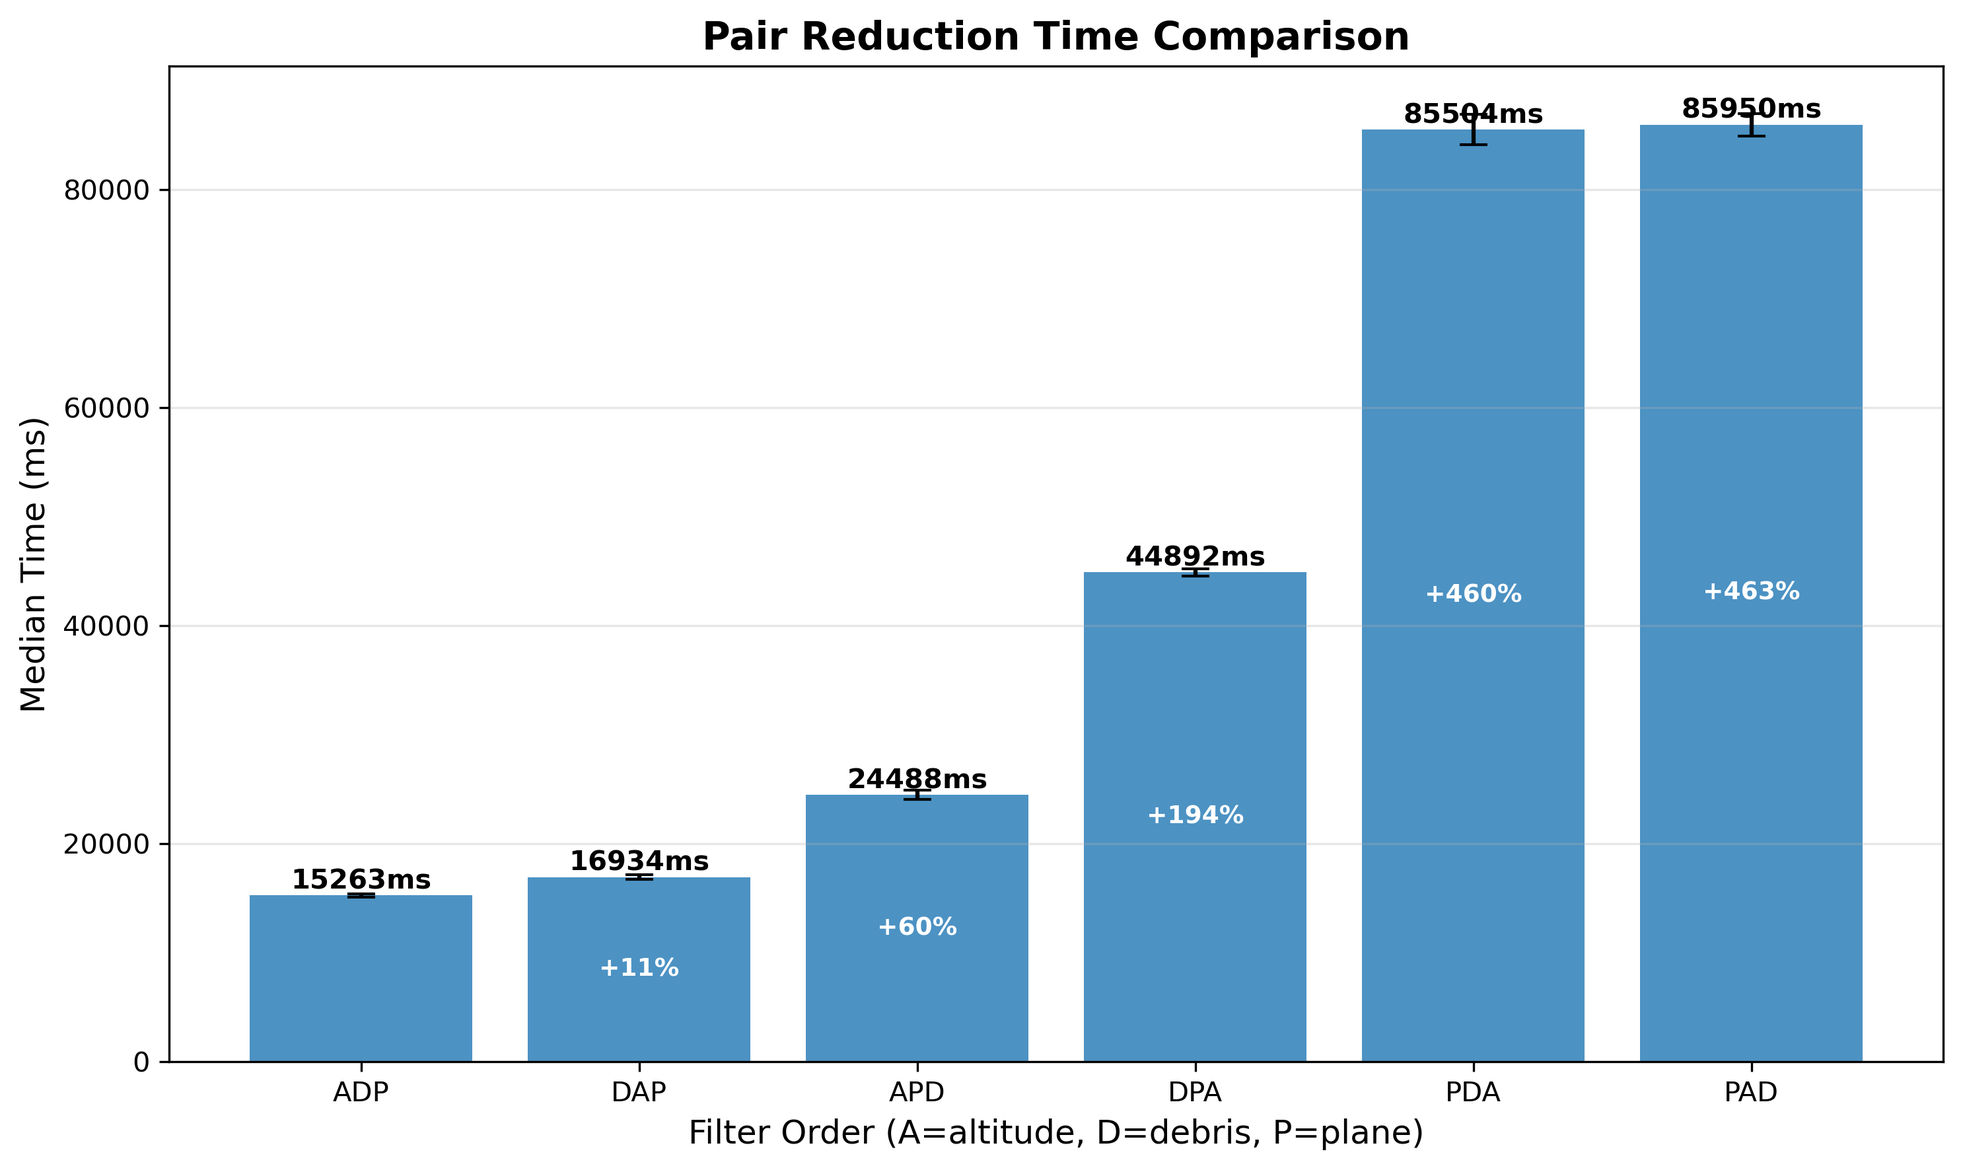
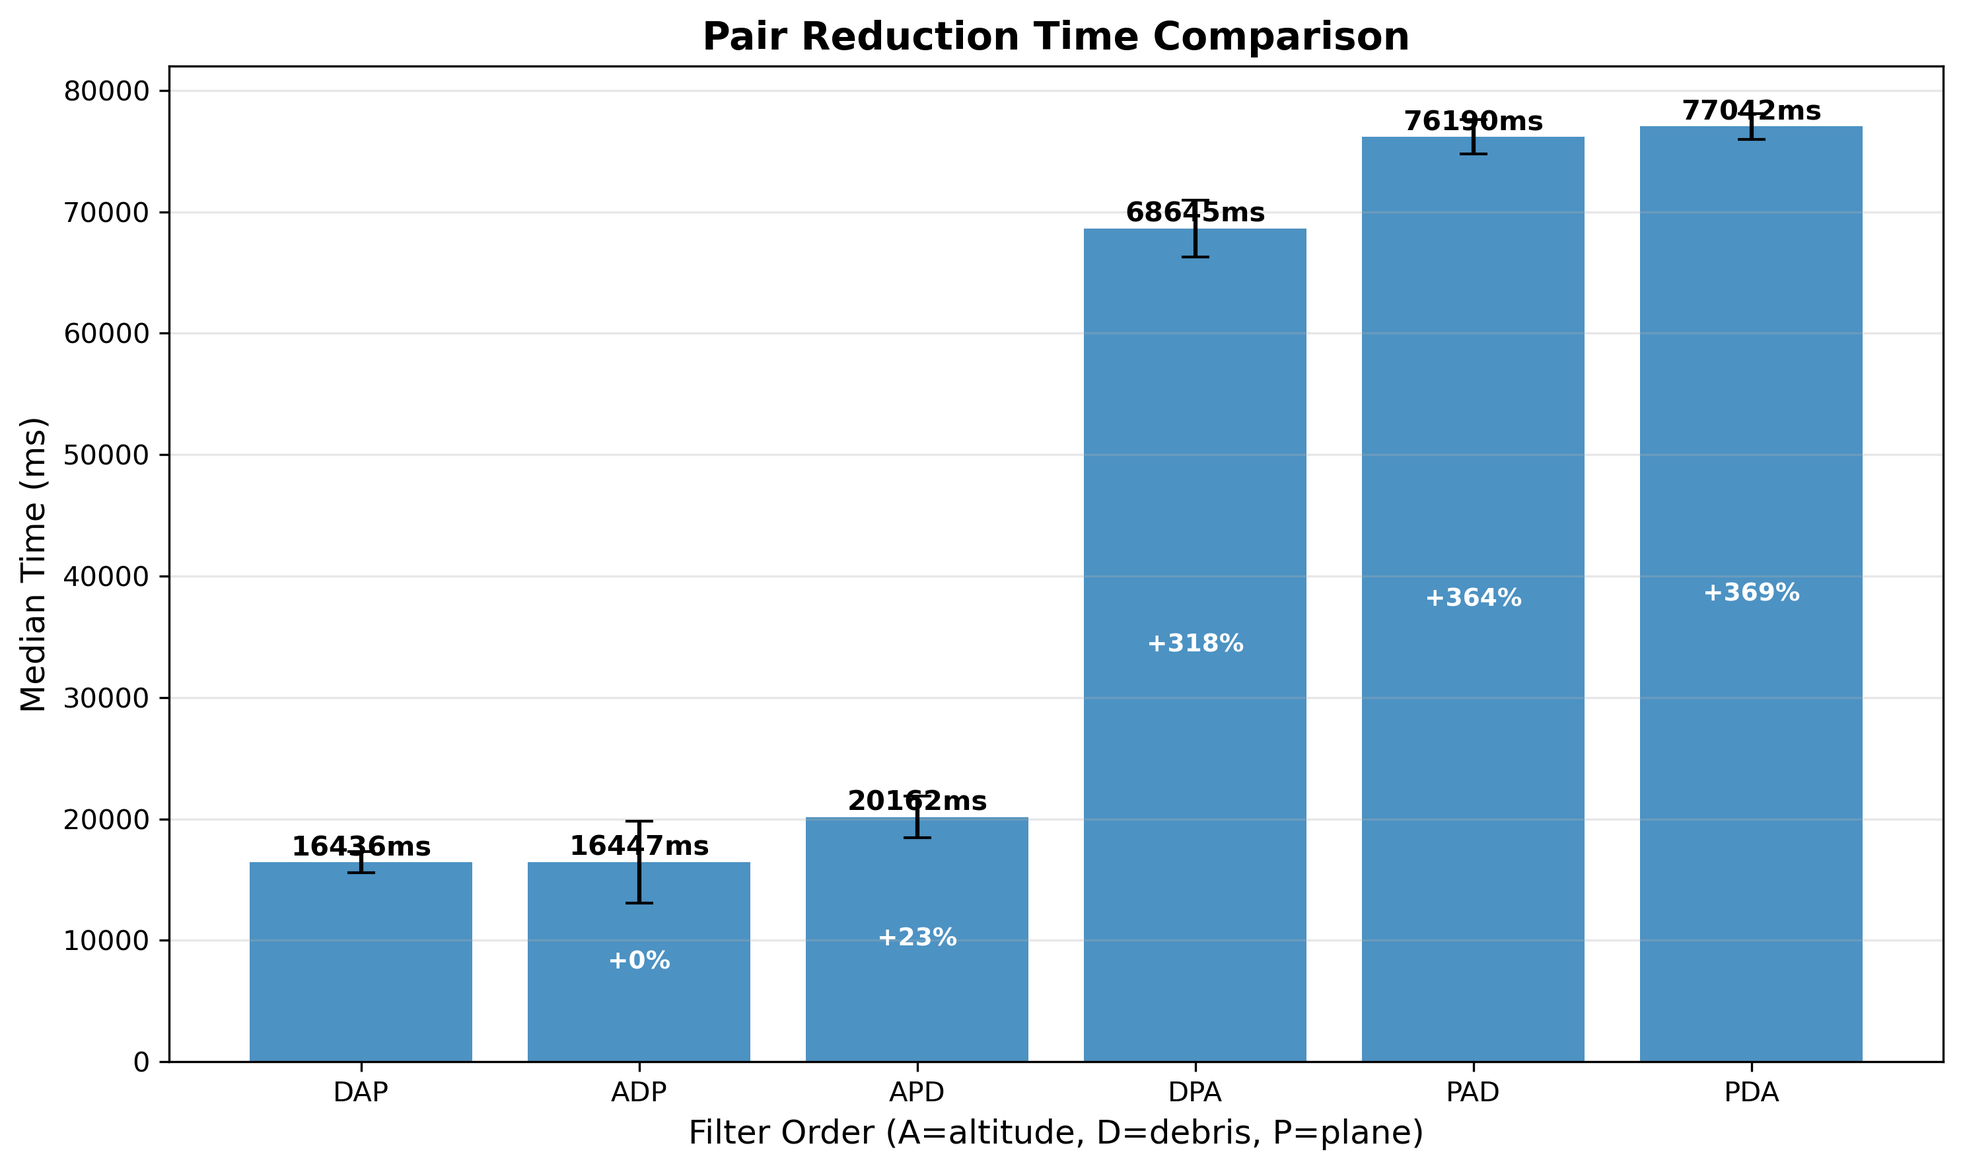
Optimize and fix bug in pair reduction

diff --git a/src/main/java/io/salad109/conjunctiondetector/satellite/internal/PairReductionBenchmark.java b/src/main/java/io/salad109/conjunctiondetector/satellite/internal/PairReductionBenchmark.java
@@ -19,15 +19,14 @@ import java.time.LocalDateTime;
 import java.time.format.DateTimeFormatter;
 import java.util.ArrayList;
 import java.util.List;
-import java.util.Map;
 import java.util.function.Consumer;
 import java.util.stream.IntStream;
 
 /**
  * Linux:
- * ./mvnw spring-boot:run -Dspring-boot.run.profiles=benchmark-filter -Dspring-boot.run.jvmArguments="-XX:+UseZGC -Xmx16g -Xms16g -XX:+AlwaysPreTouch"
+ * ./mvnw spring-boot:run -Dspring-boot.run.profiles=benchmark-filter -Dspring-boot.run.jvmArguments="-Xmx16g -Xms16g -XX:+AlwaysPreTouch"
  * Windows:
- * ./mvnw spring-boot:run "-Dspring-boot.run.profiles=benchmark-filter" "-Dspring-boot.run.jvmArguments=-XX:+UseZGC -Xmx16g -Xms16g -XX:+AlwaysPreTouch"
+ * ./mvnw spring-boot:run "-Dspring-boot.run.profiles=benchmark-filter" "-Dspring-boot.run.jvmArguments=-Xmx16g -Xms16g -XX:+AlwaysPreTouch"
  */
 @Component
 @Profile("benchmark-filter")
@@ -35,44 +34,14 @@ public class PairReductionBenchmark implements CommandLineRunner {
 
     private static final Logger log = LoggerFactory.getLogger(PairReductionBenchmark.class);
     private static final double DEFAULT_TOLERANCE_KM = 12.5;
-    private static final int ITERATIONS = 20;
+    private static final int ITERATIONS = 10;
 
     private final SatelliteRepository satelliteRepository;
     private final PairReductionService pairReductionService;
 
-    private final Map<String, PairFilter> orderings;
-
     public PairReductionBenchmark(SatelliteRepository satelliteRepository, PairReductionService pairReductionService) {
         this.satelliteRepository = satelliteRepository;
         this.pairReductionService = pairReductionService;
-
-        // A=altitude, D=debris, P=plane
-        this.orderings = Map.of(
-                "ADP", (a, b, tol) ->
-                        this.pairReductionService.altitudeShellsOverlap(a, b, tol) &&
-                                this.pairReductionService.neitherAreDebris(a, b) &&
-                                this.pairReductionService.orbitalPlanesIntersect(a, b, tol),
-                "APD", (a, b, tol) ->
-                        this.pairReductionService.altitudeShellsOverlap(a, b, tol) &&
-                                this.pairReductionService.orbitalPlanesIntersect(a, b, tol) &&
-                                this.pairReductionService.neitherAreDebris(a, b),
-                "DAP", (a, b, tol) ->
-                        this.pairReductionService.neitherAreDebris(a, b) &&
-                                this.pairReductionService.altitudeShellsOverlap(a, b, tol) &&
-                                this.pairReductionService.orbitalPlanesIntersect(a, b, tol),
-                "DPA", (a, b, tol) ->
-                        this.pairReductionService.neitherAreDebris(a, b) &&
-                                this.pairReductionService.orbitalPlanesIntersect(a, b, tol) &&
-                                this.pairReductionService.altitudeShellsOverlap(a, b, tol),
-                "PAD", (a, b, tol) ->
-                        this.pairReductionService.orbitalPlanesIntersect(a, b, tol) &&
-                                this.pairReductionService.altitudeShellsOverlap(a, b, tol) &&
-                                this.pairReductionService.neitherAreDebris(a, b),
-                "PDA", (a, b, tol) ->
-                        this.pairReductionService.orbitalPlanesIntersect(a, b, tol) &&
-                                this.pairReductionService.neitherAreDebris(a, b) &&
-                                this.pairReductionService.altitudeShellsOverlap(a, b, tol)
-        );
     }
 
     @Override
@@ -86,6 +55,28 @@ public class PairReductionBenchmark implements CommandLineRunner {
         log.info("Starting pair reduction order benchmark");
         log.info("");
 
+        double[] perigees = new double[n];
+        double[] apogees = new double[n];
+        double[] inclinations = new double[n];
+        double[] raans = new double[n];
+        double[] argPerigees = new double[n];
+        double[] eccentricities = new double[n];
+        double[] semiMajorAxes = new double[n];
+        boolean[] isDebris = new boolean[n];
+
+        for (int i = 0; i < n; i++) {
+            Satellite s = satellites.get(i);
+            perigees[i] = s.getPerigeeKm();
+            apogees[i] = s.getApogeeKm();
+            inclinations[i] = Math.toRadians(s.getInclination());
+            raans[i] = Math.toRadians(s.getRaan());
+            argPerigees[i] = Math.toRadians(s.getArgPerigee());
+            eccentricities[i] = s.getEccentricity();
+            semiMajorAxes[i] = s.getSemiMajorAxisKm();
+            isDebris[i] = "DEBRIS".equals(s.getObjectType());
+        }
+
+        // A=altitude, D=debris, P=plane
         List<String> orderNames = List.of("ADP", "APD", "DAP", "DPA", "PAD", "PDA");
         List<OrderResult> results = new ArrayList<>();
 
@@ -95,7 +86,9 @@ public class PairReductionBenchmark implements CommandLineRunner {
                 System.gc();
                 Thread.sleep(100);
 
-                results.add(runOrdering(satellites, totalPairs, orderName));
+                results.add(runOrdering(satellites, totalPairs, orderName, n,
+                        perigees, apogees, inclinations, raans, argPerigees,
+                        eccentricities, semiMajorAxes, isDebris));
             }
         }
 
@@ -103,22 +96,34 @@ public class PairReductionBenchmark implements CommandLineRunner {
         log.info("Benchmark complete");
     }
 
-    private OrderResult runOrdering(List<Satellite> satellites, long totalPairs,
-                                    String orderName) {
-        int n = satellites.size();
-        PairFilter filter = orderings.get(orderName);
+    private OrderResult runOrdering(List<Satellite> satellites, long totalPairs, String orderName,
+                                    int n, double[] perigees, double[] apogees,
+                                    double[] inclinations, double[] raans, double[] argPerigees,
+                                    double[] eccentricities, double[] semiMajorAxes, boolean[] isDebris) {
 
         StopWatch watch = StopWatch.createStarted();
         List<SatellitePair> results = IntStream.range(0, n)
                 .parallel()
                 .boxed()
                 .mapMulti((Integer i, Consumer<SatellitePair> consumer) -> {
-                    Satellite a = satellites.get(i);
+                    double perigeeA = perigees[i];
+                    double apogeeA = apogees[i];
+                    boolean debrisA = isDebris[i];
+                    double iA = inclinations[i];
+                    double raanA = raans[i];
+                    double omegaA = argPerigees[i];
+                    double eA = eccentricities[i];
+                    double aA = semiMajorAxes[i];
+
                     for (int j = i + 1; j < n; j++) {
-                        Satellite b = satellites.get(j);
-                        if (filter.test(a, b, DEFAULT_TOLERANCE_KM)) {
-                            consumer.accept(new SatellitePair(a, b));
+                        if (shouldSkip(orderName, DEFAULT_TOLERANCE_KM,
+                                perigeeA, apogeeA, debrisA, iA, raanA, omegaA, eA, aA,
+                                perigees[j], apogees[j], isDebris[j],
+                                inclinations[j], raans[j], argPerigees[j],
+                                eccentricities[j], semiMajorAxes[j])) {
+                            continue;
                         }
+                        consumer.accept(new SatellitePair(satellites.get(i), satellites.get(j)));
                     }
                 })
                 .toList();
@@ -127,6 +132,36 @@ public class PairReductionBenchmark implements CommandLineRunner {
         log.info("{} | {}ms | {} pairs", orderName, watch.getTime(), results.size());
 
         return new OrderResult(orderName, totalPairs, results.size(), watch.getTime());
+    }
+
+    private boolean shouldSkip(String order, double tol,
+                               double perigeeA, double apogeeA, boolean debrisA,
+                               double iA, double raanA, double omegaA, double eA, double aA,
+                               double perigeeB, double apogeeB, boolean debrisB,
+                               double iB, double raanB, double omegaB, double eB, double aB) {
+        return switch (order) {
+            case "ADP" -> pairReductionService.altitudeShellsMiss(perigeeA, apogeeA, perigeeB, apogeeB, tol)
+                    || pairReductionService.bothDebris(debrisA, debrisB)
+                    || pairReductionService.orbitalPlanesMiss(iA, raanA, omegaA, eA, aA, iB, raanB, omegaB, eB, aB, tol);
+            case "APD" -> pairReductionService.altitudeShellsMiss(perigeeA, apogeeA, perigeeB, apogeeB, tol)
+                    || pairReductionService.orbitalPlanesMiss(iA, raanA, omegaA, eA, aA, iB, raanB, omegaB, eB, aB, tol)
+                    || pairReductionService.bothDebris(debrisA, debrisB);
+            case "DAP" -> pairReductionService.bothDebris(debrisA, debrisB)
+                    || pairReductionService.altitudeShellsMiss(perigeeA, apogeeA, perigeeB, apogeeB, tol)
+                    || pairReductionService.orbitalPlanesMiss(iA, raanA, omegaA, eA, aA, iB, raanB, omegaB, eB, aB, tol);
+            case "DPA" -> pairReductionService.bothDebris(debrisA, debrisB)
+                    || pairReductionService.orbitalPlanesMiss(iA, raanA, omegaA, eA, aA, iB, raanB, omegaB, eB, aB, tol)
+                    || pairReductionService.altitudeShellsMiss(perigeeA, apogeeA, perigeeB, apogeeB, tol);
+            case "PAD" ->
+                    pairReductionService.orbitalPlanesMiss(iA, raanA, omegaA, eA, aA, iB, raanB, omegaB, eB, aB, tol)
+                            || pairReductionService.altitudeShellsMiss(perigeeA, apogeeA, perigeeB, apogeeB, tol)
+                            || pairReductionService.bothDebris(debrisA, debrisB);
+            case "PDA" ->
+                    pairReductionService.orbitalPlanesMiss(iA, raanA, omegaA, eA, aA, iB, raanB, omegaB, eB, aB, tol)
+                            || pairReductionService.bothDebris(debrisA, debrisB)
+                            || pairReductionService.altitudeShellsMiss(perigeeA, apogeeA, perigeeB, apogeeB, tol);
+            default -> throw new IllegalArgumentException("Unknown order: " + order);
+        };
     }
 
     private void writeCsv(List<OrderResult> results) {
@@ -147,11 +182,6 @@ public class PairReductionBenchmark implements CommandLineRunner {
         } catch (IOException e) {
             log.error("Failed to write CSV file", e);
         }
-    }
-
-    @FunctionalInterface
-    interface PairFilter {
-        boolean test(Satellite a, Satellite b, double toleranceKm);
     }
 
     private record OrderResult(String order, long totalPairs, long finalPairs, long timeMs) {

diff --git a/src/main/java/io/salad109/conjunctiondetector/satellite/PairReductionService.java b/src/main/java/io/salad109/conjunctiondetector/satellite/PairReductionService.java
@@ -14,64 +14,78 @@ public class PairReductionService {
      * Uses orbital geometry filters to reduce the number of pairs for detailed analysis.
      */
     public List<SatellitePair> findPotentialCollisionPairs(List<Satellite> satellites, double toleranceKm) {
-        int satelliteCount = satellites.size();
+        int n = satellites.size();
 
-        return IntStream.range(0, satelliteCount)
+        // Pre-extract fields into arrays
+        double[] perigees = new double[n];
+        double[] apogees = new double[n];
+        double[] inclinations = new double[n];
+        double[] raans = new double[n];
+        double[] argPerigees = new double[n];
+        double[] eccentricities = new double[n];
+        double[] semiMajorAxes = new double[n];
+        boolean[] isDebris = new boolean[n];
+
+        for (int i = 0; i < n; i++) {
+            Satellite s = satellites.get(i);
+            perigees[i] = s.getPerigeeKm();
+            apogees[i] = s.getApogeeKm();
+            inclinations[i] = Math.toRadians(s.getInclination());
+            raans[i] = Math.toRadians(s.getRaan());
+            argPerigees[i] = Math.toRadians(s.getArgPerigee());
+            eccentricities[i] = s.getEccentricity();
+            semiMajorAxes[i] = s.getSemiMajorAxisKm();
+            isDebris[i] = "DEBRIS".equals(s.getObjectType());
+        }
+
+        return IntStream.range(0, n)
                 .parallel()
                 .boxed()
                 .mapMulti((Integer i, Consumer<SatellitePair> consumer) -> {
-                    Satellite a = satellites.get(i);
-                    for (int j = i + 1; j < satelliteCount; j++) {
-                        Satellite b = satellites.get(j);
-                        if (canCollide(a, b, toleranceKm)) {
-                            consumer.accept(new SatellitePair(a, b));
+                    double perigeeA = perigees[i];
+                    double apogeeA = apogees[i];
+                    boolean debrisA = isDebris[i];
+                    double iA = inclinations[i];
+                    double raanA = raans[i];
+                    double omegaA = argPerigees[i];
+                    double eA = eccentricities[i];
+                    double aA = semiMajorAxes[i];
+
+                    for (int j = i + 1; j < n; j++) {
+                        if (altitudeShellsMiss(perigeeA, apogeeA, perigees[j], apogees[j], toleranceKm)
+                                || bothDebris(debrisA, isDebris[j])
+                                || orbitalPlanesMiss(iA, raanA, omegaA, eA, aA,
+                                inclinations[j], raans[j], argPerigees[j],
+                                eccentricities[j], semiMajorAxes[j], toleranceKm)) {
+                            continue;
                         }
+
+                        consumer.accept(new SatellitePair(satellites.get(i), satellites.get(j)));
                     }
                 })
                 .toList();
     }
 
-    /**
-     * Determines if two satellites could possibly collide.
-     * Applies orbital geometry filters with mathematical certainty.
-     */
-    public boolean canCollide(Satellite a, Satellite b, double toleranceKm) {
-        // Apply filters starting with computationally cheapest
-        return altitudeShellsOverlap(a, b, toleranceKm) &&
-                neitherAreDebris(a, b) &&
-                orbitalPlanesIntersect(a, b, toleranceKm);
+    public boolean altitudeShellsMiss(double perigeeA, double apogeeA,
+                                      double perigeeB, double apogeeB, double toleranceKm) {
+        return apogeeA + toleranceKm < perigeeB || apogeeB + toleranceKm < perigeeA;
     }
 
-    public boolean altitudeShellsOverlap(Satellite a, Satellite b, double toleranceKm) {
-        double perigeeA = a.getPerigeeKm();
-        double apogeeA = a.getApogeeKm();
-        double perigeeB = b.getPerigeeKm();
-        double apogeeB = b.getApogeeKm();
-        return !(apogeeA + toleranceKm < perigeeB || apogeeB + toleranceKm < perigeeA);
+    public boolean bothDebris(boolean debrisA, boolean debrisB) {
+        return debrisA && debrisB;
     }
 
-    public boolean neitherAreDebris(Satellite a, Satellite b) {
-        return !"DEBRIS".equals(a.getObjectType()) && !"DEBRIS".equals(b.getObjectType());
-    }
-
-    public boolean orbitalPlanesIntersect(Satellite a, Satellite b, double toleranceKm) {
-        double iA = Math.toRadians(a.getInclination());
-        double iB = Math.toRadians(b.getInclination());
-        double raanA = Math.toRadians(a.getRaan());
-        double raanB = Math.toRadians(b.getRaan());
-        double omegaA = Math.toRadians(a.getArgPerigee());
-        double omegaB = Math.toRadians(b.getArgPerigee());
-        double eA = a.getEccentricity();
-        double eB = b.getEccentricity();
-        double aA = a.getSemiMajorAxisKm();
-        double aB = b.getSemiMajorAxisKm();
+    public boolean orbitalPlanesMiss(
+            double iA, double raanA, double omegaA, double eA, double aA,
+            double iB, double raanB, double omegaB, double eB, double aB,
+            double toleranceKm) {
 
         double deltaRaan = raanA - raanB;
 
         // Coplanar orbits can intersect anywhere
         double relativeInclination = computeRelativeInclination(iA, iB, deltaRaan);
         if (relativeInclination < Math.toRadians(0.1)) {
-            return true;
+            return false;
         }
 
         // Find where each orbit crosses the intersection line between orbital planes
@@ -97,7 +111,7 @@ public class PairReductionService {
         double diff4 = Math.abs(rA2 - rB2);
 
         double minDiff = Math.min(Math.min(diff1, diff2), Math.min(diff3, diff4));
-        return minDiff <= toleranceKm;
+        return minDiff > toleranceKm;
     }
 
     private double computeRelativeInclination(double iA, double iB, double deltaRaan) {

diff --git a/src/main/java/io/salad109/conjunctiondetector/conjunction/internal/ConjunctionBenchmark.java b/src/main/java/io/salad109/conjunctiondetector/conjunction/internal/ConjunctionBenchmark.java
@@ -29,9 +29,9 @@ import java.util.Objects;
 
 /**
  * Linux:
- * ./mvnw spring-boot:run -Dspring-boot.run.profiles=benchmark-conjunction -Dspring-boot.run.jvmArguments="-XX:+UseZGC -Xmx16g -Xms16g -XX:+AlwaysPreTouch"
+ * ./mvnw spring-boot:run -Dspring-boot.run.profiles=benchmark-conjunction -Dspring-boot.run.jvmArguments="-Xmx16g -Xms16g -XX:+AlwaysPreTouch"
  * Windows:
- * ./mvnw spring-boot:run "-Dspring-boot.run.profiles=benchmark-conjunction" "-Dspring-boot.run.jvmArguments=-XX:+UseZGC -Xmx16g -Xms16g -XX:+AlwaysPreTouch"
+ * ./mvnw spring-boot:run "-Dspring-boot.run.profiles=benchmark-conjunction" "-Dspring-boot.run.jvmArguments=-Xmx16g -Xms16g -XX:+AlwaysPreTouch"
  */
 @Component
 @Profile("benchmark-conjunction")

diff --git a/docs/1-pair-reduction.md b/docs/1-pair-reduction.md
@@ -1,35 +1,35 @@
 # Pair Reduction Filter Order
 
 With ~30,000 tracked objects, naive N^2 comparison requires checking 441 million satellite pairs. Three geometric
-filters reduce this to 4% of original pairs. This experiment determines the optimal filter ordering at 12.5 km
-tolerance.
+filters reduce this to 5.1% of original pairs (~22.5M). This experiment determines the optimal filter ordering at
+12.5 km tolerance.
 
 ## Filters
 
 Three filters eliminate pairs that cannot possibly collide:
 
-| Filter       | Description                               | Passthrough |
-|--------------|-------------------------------------------|-------------|
-| **Debris**   | Skip pairs where both objects are debris  | 43.9%       |
-| **Altitude** | Require overlapping perigee/apogee ranges | 18.9%       |
-| **Plane**    | Check orbital plane intersection geometry | 6.2%        |
+| Filter       | Description                               |
+|--------------|-------------------------------------------|
+| **Altitude** | Require overlapping perigee/apogee ranges |
+| **Debris**   | Skip pairs where both objects are debris  |
+| **Plane**    | Check orbital plane intersection geometry |
 
 First filter runs on all pairs. Subsequent filters only run on pairs that passed previous filters.
 
 ## Filter Order Analysis
 
-All orderings produce identical final pair counts (17.6M pairs, 4.0% of original). Only execution time differs.
+All orderings produce identical final pair counts (22.5M pairs, 5.1% of original). Only execution time differs.
 
-| Order | Time  | Relative |
-|-------|-------|----------|
-| ADP   | 15.3s | baseline |
-| DAP   | 16.9s | +11%     |
-| APD   | 24.5s | +60%     |
-| DPA   | 44.9s | +194%    |
-| PDA   | 85.5s | +460%    |
-| PAD   | 86.0s | +463%    |
+| Order | Time   | Relative |
+|-------|--------|----------|
+| ADP   | 16.3s  | baseline |
+| DAP   | 16.5s  | +1%      |
+| APD   | 20.2s  | +24%     |
+| DPA   | 68.6s  | +320%    |
+| PAD   | 76.4s  | +368%    |
+| PDA   | 77.0s  | +372%    |
 
-**Optimal order: Altitude, Debris, Plane (ADP)** — 1.7s faster than DAP, 5.6× faster than worst ordering.
+**Optimal order: Altitude, Debris, Plane (ADP)** — nearly tied with DAP, 4.7x faster than worst ordering.
 
 ## Running the Benchmark
 
